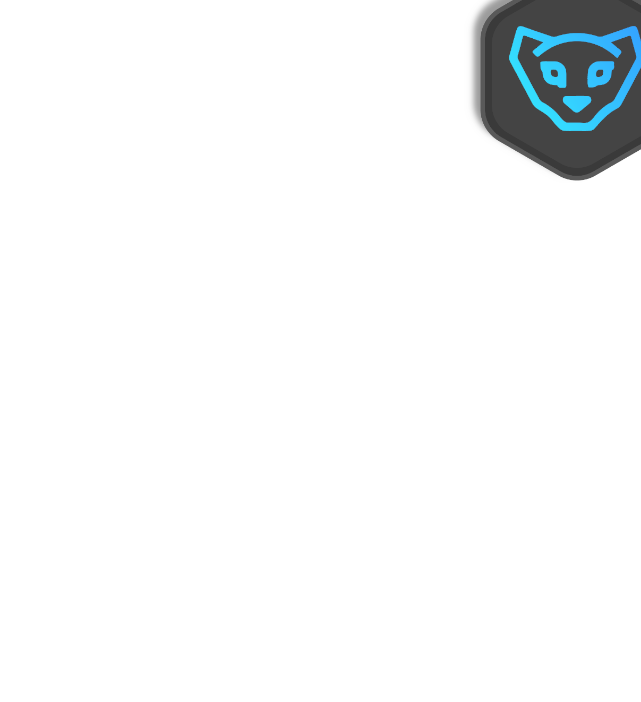
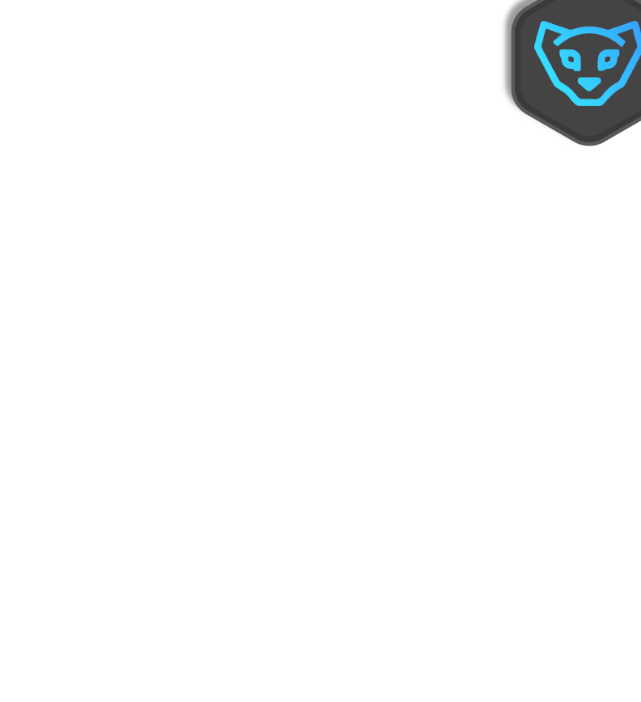
Fix websites, update images.

Changed region(s): [[0.7176, 0.0, 1.0, 0.2692]]

diff --git a/src/views/Home/Home.tsx b/src/views/Home/Home.tsx
@@ -20,11 +20,11 @@ const Hero = styled.div`
   margin-bottom: 32px;
   padding-top: 116px;
   text-align: center;
-  align-items: flex-end;
+  align-items: center;
 
   ${({ theme }) => theme.mediaQueries.lg} {
     background-image: url('/images/cub/wide.svg');
-    background-position: left center, right center;
+    background-position: right center, left center;
     height: 165px;
     padding-top: 0;
   }

diff --git a/src/views/Farms/Farms.tsx b/src/views/Farms/Farms.tsx
@@ -108,7 +108,7 @@ const Farms: React.FC<FarmsProps> = (farmsProps) => {
           </Route>
         </FlexLayout>
       </div>
-      <Image src="/images/egg/8.png" alt="illustration" width={1352} height={587} responsive />
+      <Image src="/images/cub/wide.svg" alt="illustration" width={1352} height={587} responsive />
     </Page>
   )
 }

diff --git a/src/components/Menu/config.ts b/src/components/Menu/config.ts
@@ -77,7 +77,7 @@ const config: MenuEntry[] = [
       // },
       {
         label: "Github",
-        href: "https://github.com/goosedefi/",
+        href: "https://github.com/CubFinance/",
       },
       // {
       //   label: "Docs",
